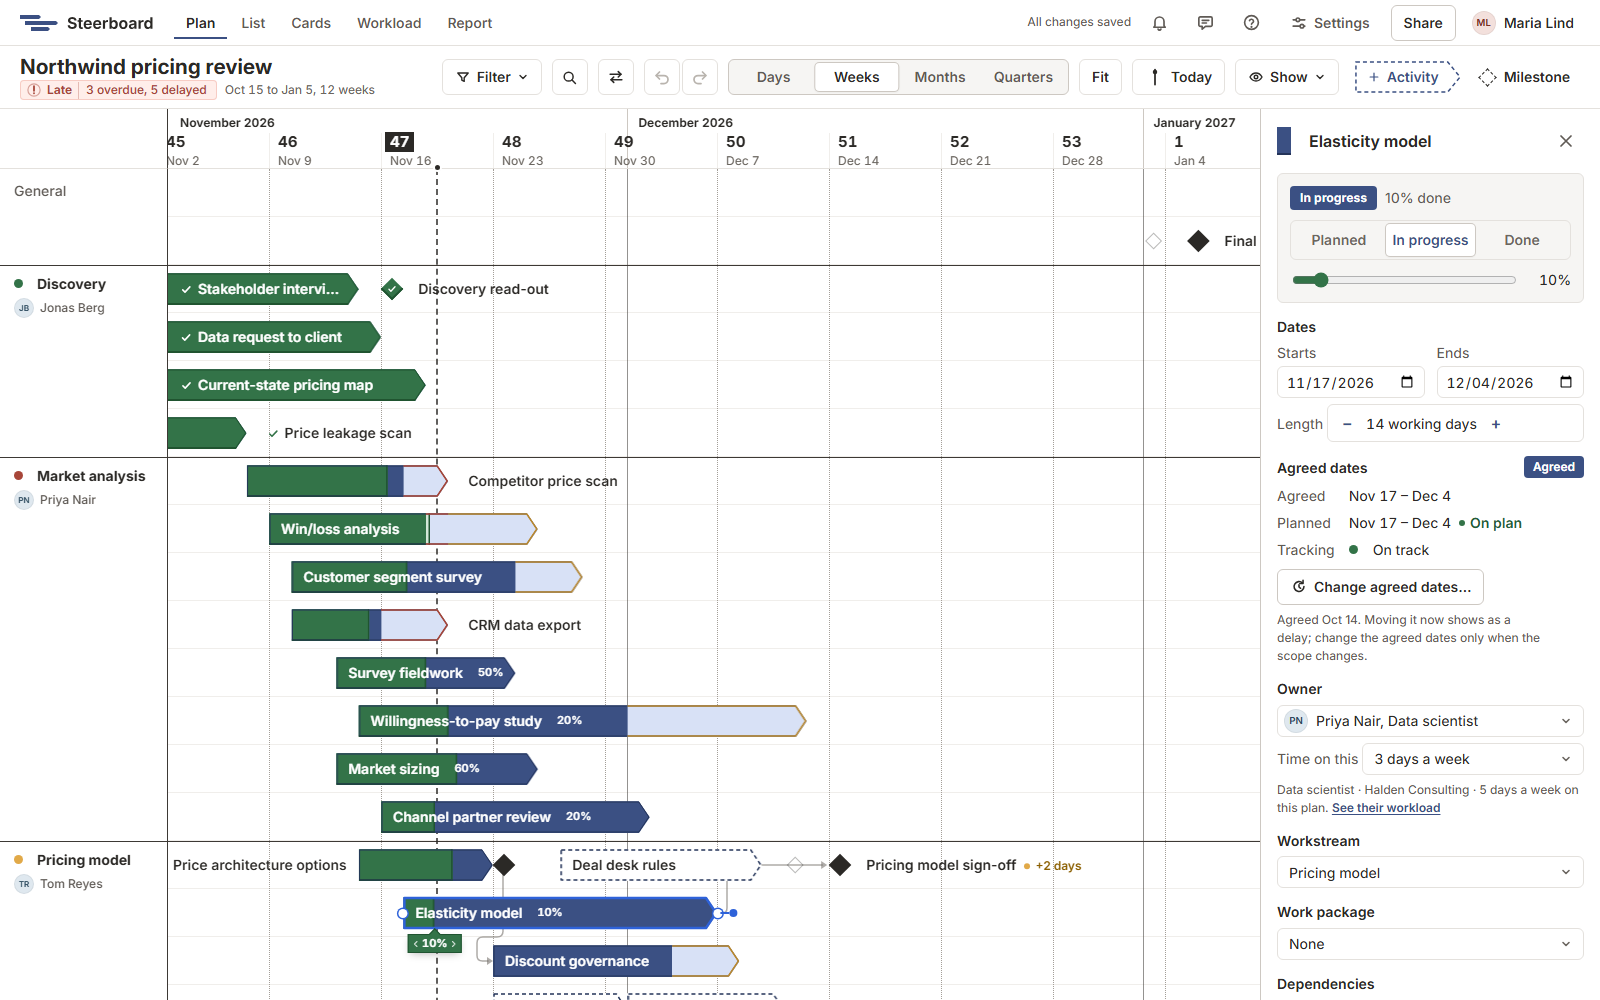
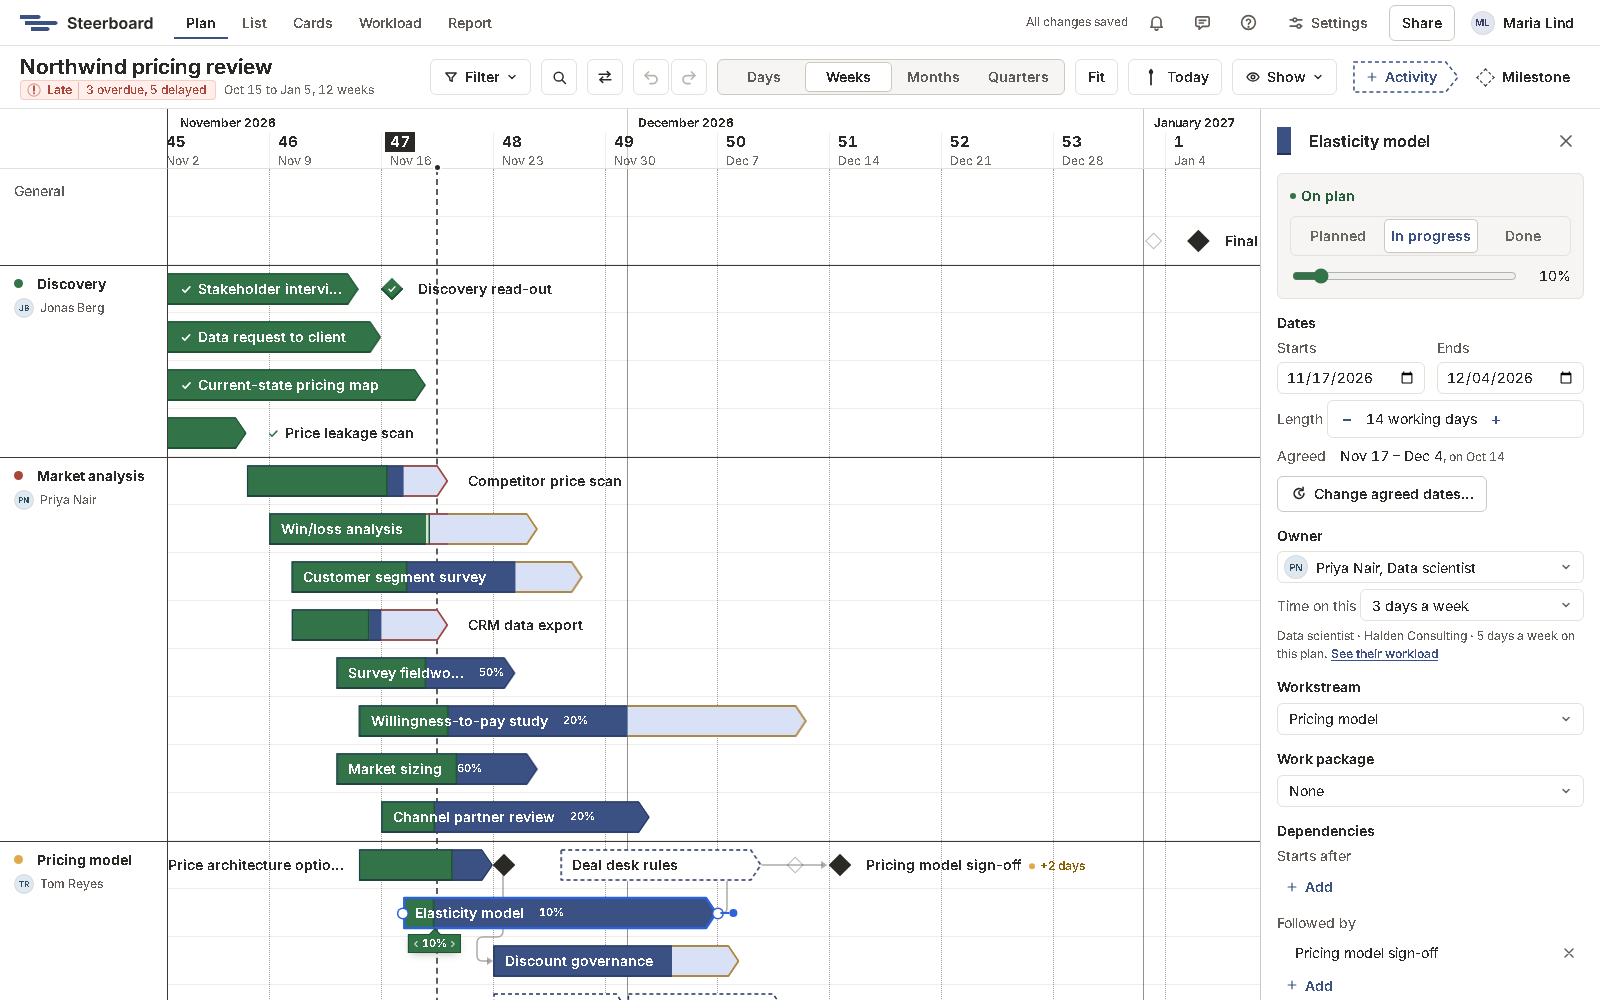
The details panel says each thing once, and explains nothing
The top of an item's details repeated itself: its stage in a pill and
in the status choice, the same dates in the fields, an Agreed row and a
Planned row, "agreed" five times, and On plan beside On track (overdue
work said On plan beside Late).

- One line at the top says how agreed work stands against its agreed
  dates, in the glossary's words (standingOf): On plan, early, Delayed,
  Overdue; Finished on time or late.
- The status choice is the stage, and the slider the progress.
- Dates holds the fields, Completed on and one Agreed row with the day
  they were agreed, over Change agreed dates.
- A draft is its pill and its Agree button.
- The sentences of explanation are gone from the panel and the
  selection; what states a fact about this piece of work stays.

SCENARIOS DT4 and DT5, with checks in the browser for one of each kind
of work. Docs, What's new and the docs pictures follow.

diff --git a/pages/plan/details.md b/pages/plan/details.md
@@ -12,23 +12,25 @@ own work stands and write its notes. Editors and owners change everything.
 
 ![The details panel](../img/plan-details.png)
 
-Under the name, first, is where it stands: **Draft**, **Planned**,
-**In progress** or **Done**, how it's tracking (late or delayed, with by how
-much), and what's next. A draft has its **Agree** button there: it must be
-agreed before it can start. Agreed work has its status there (**Planned**,
-**In progress** or **Done**) and a progress slider, in steps of 10%.
+Under the name, first, is where it stands, with each thing said once. Agreed
+work has one line for how it stands against its agreed dates: on plan, so
+many days early, delayed or overdue, and once it's finished, whether that was
+on time. Under that are its status (**Planned**, **In progress** or **Done**)
+and a progress slider, in steps of 10%. A draft says **Draft** and has its
+**Agree** button there: it must be agreed before it can start.
 
 | Field | What it does |
 |---|---|
 | Name | Click the title to rename it. |
 | **Starts** and **Ends** | Under **Dates**: the planned dates. Typing a start after the end moves the whole item there, keeping its length. A weekend date moves to the next working day. |
 | **Length** | In working days; − and + change it. |
-| **Agreed dates** | For agreed work: the agreed and planned dates, and how it's tracking. **Change agreed dates…** for a change of scope. |
+| **Completed on** | For finished work, under **Dates**: the day it was finished, which can be corrected. |
+| **Agreed** | For agreed work, under **Dates**: the dates agreed, and the day they were agreed. **Change agreed dates…** for a change of scope. A work package says how much of what's inside is agreed. |
 | **Owner** | Who does it, picked from the project's team. A work package's owner is its lead. For someone who isn't on the team yet, choose **Someone not on the team…** at the end of the list: it opens the project's [people](../sharing/sharing.md#add-people) to add them. |
 | **Time on this** | How much of the owner's week it takes: full time, 3 days a week, a day a week, and so on (in shares of the week when the project's [working days](holidays.md) aren't five). |
 | **Workstream** | Moves the item to a row in another workstream. |
 | **Work package** | Puts the item in a work package, or takes it out of one. It moves onto the package's rows, or off them. |
-| **Completed on** | For finished work, above its dates: the day it was finished, which can be corrected. |
+
 | Starts after, Followed by | Its [links](links.md), with **Add** and ×. |
 | **What this depends on** | On a milestone, under its links: lights up the linked work leading to it, and lists the steps with the room each has. See [What a milestone depends on](links.md#what-a-milestone-depends-on). |
 | Updates | A few words on where it stands and why, each kept with your name and the day. See [Updates](#updates). |

diff --git a/pages/whats-new.md b/pages/whats-new.md
@@ -4,6 +4,12 @@ What has changed in Steerboard, newest first.
 
 ## November 2026
 
+**The details say each thing once.** The top of an item's details no longer
+repeats itself. One line says how it stands against its agreed dates, the
+status choice is its stage, and **Dates** holds the dates as planned, the day
+it was finished and the dates agreed. The sentences of explanation in the
+panel are gone too: the docs have them.
+
 **Seats, said straight.** People's seats line no longer has a link that leads
 nowhere. **See who has a seat** lists them where a seat is freed, and a way
 to more seats is there only where your account can take one.
